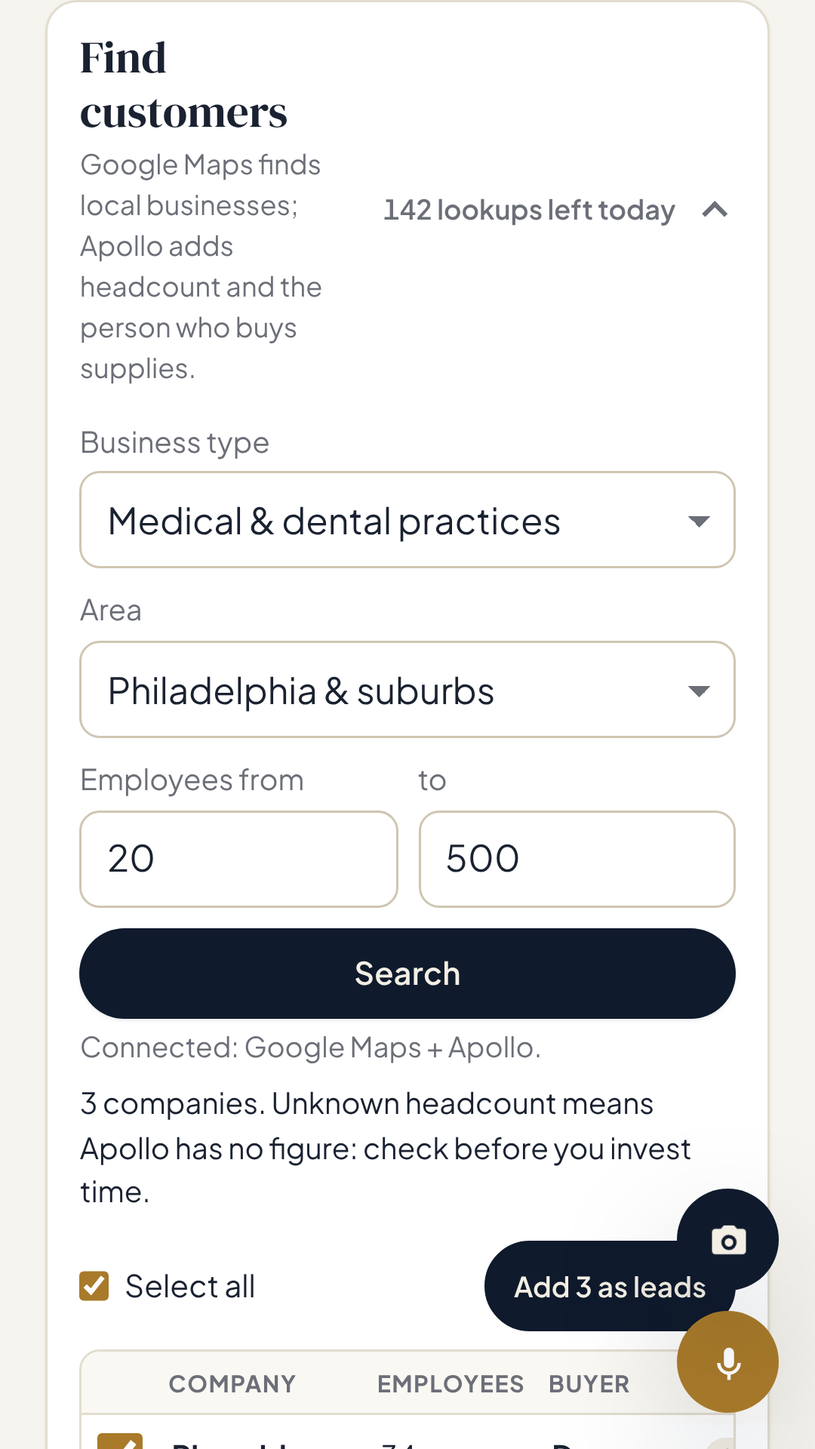
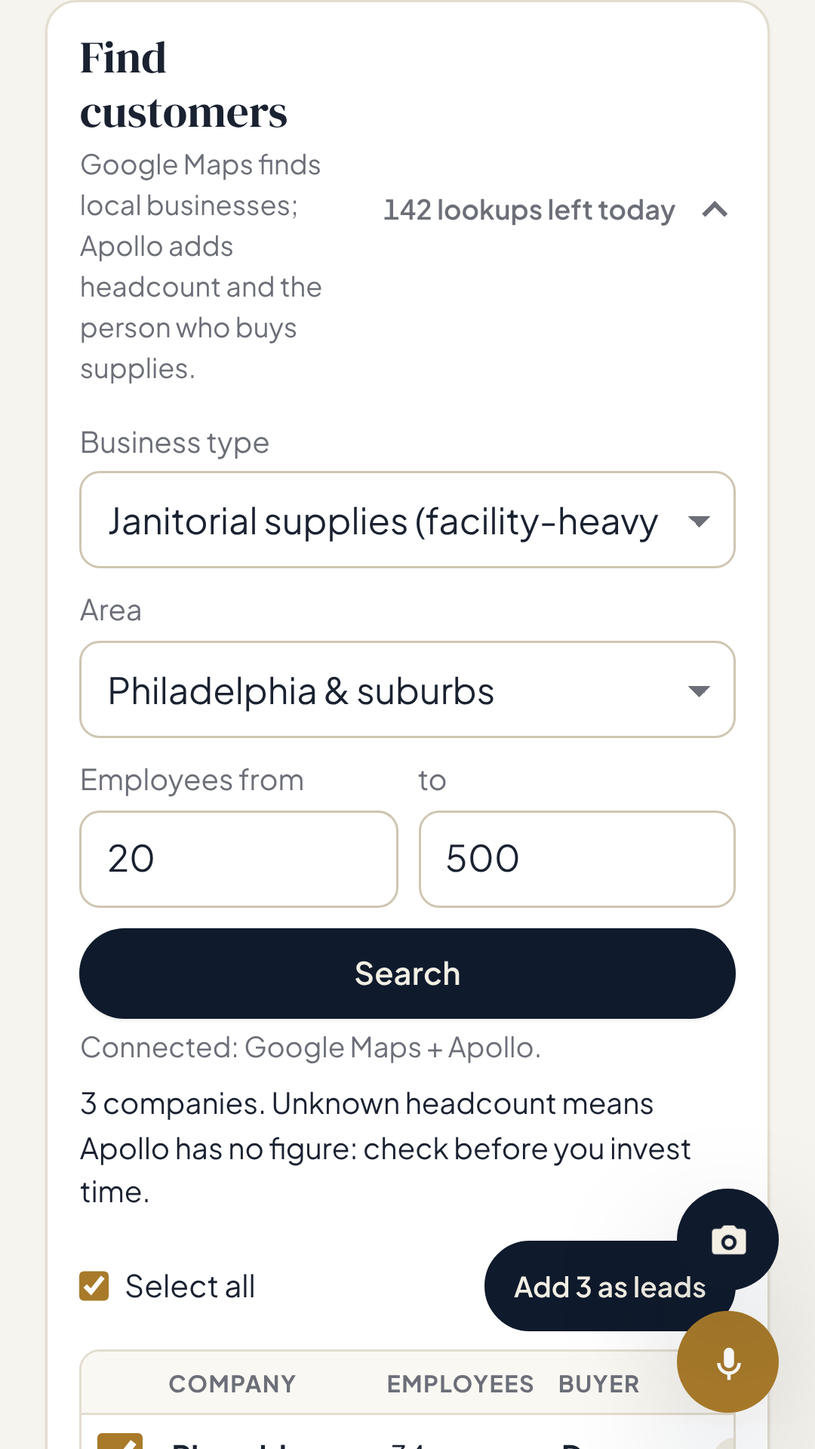
Focus the finder on janitorial, commercial furniture, branded products and uniforms
- Finder searches by product line with per-line Google queries, Apollo tags and buyer titles; leads filed under that product
- Branded products added as a product line (prospecting, quotes, account cross-sell); Print and Promotional lines split into branded vs uniforms
- Coach knowledge: who buys each product line; sample leads, listing copy, screenshots updated

Claude-Session: https://claude.ai/code/session_013NqyJyzSUuvsgJFnDHCgji

Changed region(s): [[0.1222, 0.3438, 0.7944, 0.375], [0.4583, 0.9375, 0.6417, 0.9688], [0.6722, 0.9375, 0.7944, 0.9688]]

diff --git a/frontend/sample.js b/frontend/sample.js
@@ -7,10 +7,10 @@
   const hub = window.SalesHub;
 
   const SAMPLES = [
-    { company: "Brightside Dental (SAMPLE)", industry: "Dental practice", employees: 34, city: "Philadelphia", state: "PA", zip: "19103", contactName: "Dana Reyes", contactTitle: "Practice Manager", email: "dana@brightside-dental.example", phone: "(215) 555-0111", website: "brightside-dental.example", stage: "verified", emailStatus: "valid" },
-    { company: "Keystone Legal Group (SAMPLE)", industry: "Law firm", employees: 58, city: "Allentown", state: "PA", zip: "18101", contactName: "Marcus Lee", contactTitle: "Office Administrator", email: "marcus@keystone-legal.example", phone: "(610) 555-0122", website: "keystone-legal.example", stage: "contacted", emailStatus: "valid" },
+    { company: "Brightside Dental (SAMPLE)", industry: "Dental practice", employees: 34, city: "Philadelphia", state: "PA", zip: "19103", contactName: "Dana Reyes", contactTitle: "Practice Manager", email: "dana@brightside-dental.example", phone: "(215) 555-0111", website: "brightside-dental.example", stage: "verified", emailStatus: "valid", products: ["janitorial"] },
+    { company: "Keystone Legal Group (SAMPLE)", industry: "Law firm", employees: 58, city: "Allentown", state: "PA", zip: "18101", contactName: "Marcus Lee", contactTitle: "Office Administrator", email: "marcus@keystone-legal.example", phone: "(610) 555-0122", website: "keystone-legal.example", stage: "contacted", emailStatus: "valid", products: ["furniture", "branded"] },
     { company: "Harbor Property Partners (SAMPLE)", industry: "Property management", employees: 41, city: "Cherry Hill", state: "NJ", zip: "08002", contactName: "Priya Nair", contactTitle: "Facilities Manager", email: "priya@harbor-property.example", phone: "(856) 555-0133", website: "harbor-property.example", stage: "enriched", emailStatus: "unverified" },
-    { company: "Lancaster Precision Tool (SAMPLE)", industry: "Manufacturing", employees: 120, city: "Lancaster", state: "PA", zip: "17601", contactName: "Tom Becker", contactTitle: "Operations Manager", email: "tom@lancaster-precision.example", phone: "(717) 555-0144", website: "lancaster-precision.example", stage: "qualified", emailStatus: "valid" },
+    { company: "Lancaster Precision Tool (SAMPLE)", industry: "Manufacturing", employees: 120, city: "Lancaster", state: "PA", zip: "17601", contactName: "Tom Becker", contactTitle: "Operations Manager", email: "tom@lancaster-precision.example", phone: "(717) 555-0144", website: "lancaster-precision.example", stage: "qualified", emailStatus: "valid", products: ["apparel", "janitorial"] },
     { company: "Maple Grove Academy (SAMPLE)", industry: "Private school", employees: 76, city: "Media", state: "PA", zip: "19063", contactName: "", contactTitle: "", email: "", phone: "(610) 555-0155", website: "maplegrove-academy.example", stage: "new", emailStatus: "unverified" },
     { company: "Delaware Valley Staffing (SAMPLE)", industry: "Staffing agency", employees: 49, city: "King of Prussia", state: "PA", zip: "19406", contactName: "Alicia Moore", contactTitle: "Office Manager", email: "alicia@dvstaffing.example", phone: "(610) 555-0166", website: "dvstaffing.example", stage: "new", emailStatus: "unverified" },
   ];

diff --git a/scripts/store_screenshots.js b/scripts/store_screenshots.js
@@ -19,9 +19,9 @@ const DEVICES = {
 const FINDER = {
   found: 3, notes: [], remaining: 142,
   results: [
-    { company: "Riverside Family Dental", address: "1200 Market St", city: "Philadelphia", state: "PA", zip: "19103", employees: 34, phone: "(215) 555-0111", website: "riverside-dental.example", contactName: "Dana Reyes", contactTitle: "Practice Manager", fit: 82, source: "Google Maps + Apollo", placeId: "s1", lat: 39.95, lng: -75.16 },
-    { company: "Walnut Street Accounting", address: "50 N 6th St", city: "Philadelphia", state: "PA", zip: "19106", employees: 58, phone: "(215) 555-0122", website: "walnut-accounting.example", fit: 71, source: "Google Maps + Apollo", placeId: "s2", lat: 39.95, lng: -75.15 },
-    { company: "Bayview Property Group", address: "8 Kings Hwy", city: "Cherry Hill", state: "NJ", zip: "08002", employees: "", phone: "(856) 555-0133", website: "bayview-property.example", fit: 55, source: "Google Maps", placeId: "s3", lat: 39.93, lng: -75.03 },
+    { company: "Riverside Medical Associates", address: "1200 Market St", city: "Philadelphia", state: "PA", zip: "19103", employees: 34, phone: "(215) 555-0111", website: "riverside-medical.example", contactName: "Dana Reyes", contactTitle: "Facilities Manager", fit: 82, source: "Google Maps + Apollo", placeId: "s1", lat: 39.95, lng: -75.16 },
+    { company: "Walnut Street Hotel", address: "50 N 6th St", city: "Philadelphia", state: "PA", zip: "19106", employees: 58, phone: "(215) 555-0122", website: "walnut-hotel.example", fit: 71, source: "Google Maps + Apollo", placeId: "s2", lat: 39.95, lng: -75.15 },
+    { company: "Bayview Warehousing", address: "8 Kings Hwy", city: "Cherry Hill", state: "NJ", zip: "08002", employees: "", phone: "(856) 555-0133", website: "bayview-warehousing.example", fit: 55, source: "Google Maps", placeId: "s3", lat: 39.93, lng: -75.03 },
   ],
 };
 
@@ -32,7 +32,7 @@ const FINDER = {
     fs.mkdirSync(out, { recursive: true });
     const ctx = await browser.newContext({ viewport: { width: d.width, height: d.height }, deviceScaleFactor: d.scale, isMobile: d.width < 700, hasTouch: true });
     const page = await ctx.newPage();
-    await page.route("**/finder/status", (r) => r.fulfill({ json: { google: true, apollo: true, remaining: 150, areas: { philadelphia: "Philadelphia & suburbs" }, segments: { healthcare: "Medical & dental practices", professional: "Professional offices (law, accounting, insurance, finance)" }, defaults: { min_employees: 20, max_employees: 500 } } }));
+    await page.route("**/finder/status", (r) => r.fulfill({ json: { google: true, apollo: true, remaining: 150, areas: { philadelphia: "Philadelphia & suburbs" }, segments: { janitorial: "Janitorial supplies (facility-heavy buyers)", furniture: "Commercial furniture projects (new, moving or renovating)", branded: "Branded & promotional products", uniforms: "Purchased uniforms & work apparel" }, defaults: { min_employees: 20, max_employees: 500 } } }));
     await page.route("**/finder/search", (r) => r.fulfill({ json: FINDER }));
     await page.goto(base);
     await page.fill("#signin-email", email);

diff --git a/frontend/quotes.js b/frontend/quotes.js
@@ -27,6 +27,7 @@
     janitorial: "Janitorial & facility",
     furniture: "Furniture & design",
     apparel: "Uniforms & apparel",
+    branded: "Branded products",
     other: "Other",
   };
 
@@ -35,16 +36,18 @@
   const LINE_KEYWORDS = {
     furniture: /\b(chair|desk|table|workstation|cabinet|shelv|cubicle|seating|furniture|bookcase|credenza|ergonomic)/,
     apparel: /\b(shirt|polo|scrub|jacket|uniform|apparel|hat|cap|vest|pant|quarter[- ]?zip|hoodie|fleece)/,
+    branded: /\b(branded|logo|promo\w*|drinkware|tote|giveaway|lanyard|banner|signage|swag)/,
   };
 
   function guessLineType(text) {
     const t = (text || "").toLowerCase();
     if (LINE_KEYWORDS.furniture.test(t)) return "furniture";
     if (LINE_KEYWORDS.apparel.test(t)) return "apparel";
+    if (LINE_KEYWORDS.branded.test(t)) return "branded";
     return "janitorial";
   }
 
-  const DEFAULT_FREQ = { janitorial: "month", furniture: "once", apparel: "once", other: "once" };
+  const DEFAULT_FREQ = { janitorial: "month", furniture: "once", apparel: "once", branded: "once", other: "once" };
 
   // Default sales-tax rate from the customer's location. Reps confirm per deal.
   function defaultTaxRate(c) {
@@ -433,7 +436,10 @@
 
   // Quote lines keep a coarse product line ("type") for account coverage and
   // the six-way catalog category for display.
-  const CAT_TO_TYPE = { janitorial: "janitorial", breakroom: "janitorial", furniture: "furniture", promo: "apparel", office: "other", printing: "other", other: "other" };
+  const CAT_TO_TYPE = { janitorial: "janitorial", breakroom: "janitorial", furniture: "furniture", promo: "branded", office: "other", printing: "other", other: "other" };
+  // Print and Promotional holds two product lines: worn items are uniforms/apparel, the rest branded products.
+  const WORN = /\b(uniforms?|apparel|shirts?|polos?|hoodies?|jackets?|caps?|hats?|scrubs?|aprons?|pants|vests?|boots?)\b/i;
+  const typeFor = (category, name) => (category === "promo" && WORN.test(name || "") ? "apparel" : CAT_TO_TYPE[category] || "other");
   const CAT_FREQ = { furniture: "once", promo: "once" }; // everything else restocks monthly
   // Rounded up to the cent so the price never lands below the chosen margin.
   const priceFor = (cost, m) => Math.ceil((num(cost) / (1 - Math.min(99.9, Math.max(0, num(m))) / 100)) * 100 - 1e-9) / 100;
@@ -840,7 +846,7 @@
       sku: ipInputs["ip-sku"].value.trim(),
       name,
       category,
-      type: CAT_TO_TYPE[category] || "other",
+      type: typeFor(category, name),
       qty: val("ip-qty") ?? 1,
       uom: ipInputs["ip-uom"].value.trim() || "each",
       freq: $("ip-freq").value,

diff --git a/frontend/prospecting.js b/frontend/prospecting.js
@@ -108,8 +108,14 @@
       why: "They manage day-to-day building upkeep and order cleaning/restocking supplies.",
       pitch: "janitorial supply",
     },
+    branded: {
+      label: "Branded & promotional products",
+      titles: ["Marketing Manager", "Events / Communications Manager", "Office Manager"],
+      why: "Marketing and events teams order logo items for customers, trade shows and employee gifts.",
+      pitch: "branded and promotional product",
+    },
     apparel: {
-      label: "Uniforms & corporate apparel",
+      label: "Purchased uniforms & work apparel",
       titles: ["HR Director", "Marketing Manager (Corporate)", "Operations Lead (Field/Techs)"],
       why: "HR coordinates employee apparel programs; Marketing handles corporate branding.",
       pitch: "uniform & apparel",

diff --git a/frontend/finder.js b/frontend/finder.js
@@ -169,6 +169,7 @@
         source: r.source || "Customer finder", placeId: r.placeId || "", lat: r.lat ?? "", lng: r.lng ?? "",
         geoQuery: [r.address, r.city, r.state].filter(Boolean).join(", "), geocodedAt: r.lat != null ? new Date().toISOString() : "",
         linkedinUrl: r.linkedinUrl || "",
+        products: r.product ? [r.product] : [], // the product line searched for
       }))
     );
     const skipped = rows.length - added.length;

diff --git a/frontend/accounts.js b/frontend/accounts.js
@@ -230,7 +230,7 @@
     const list = filteredAccounts();
     const tbody = $("a-rows");
     tbody.replaceChildren();
-    const short = { furniture: "Furniture", janitorial: "Janitorial", apparel: "Apparel" };
+    const short = { furniture: "Furniture", janitorial: "Janitorial", apparel: "Uniforms", branded: "Branded" };
     for (const { a, m } of list) {
       const tr = document.createElement("tr");
       tr.dataset.id = a.id;

diff --git a/prospect_finder.py b/prospect_finder.py
@@ -7,8 +7,7 @@ headcount and the decision-maker. Both keys stay on the server.
                domain, headcount inside the range (unknown headcount is kept
                and flagged so the rep can decide)
     Enrich     on demand, one company at a time: Apollo organization enrich for
-               headcount, then people search for the buyer (office / facilities /
-               operations / purchasing). Names and titles only. Emails that
+               headcount, then people search for the buyer (for the chosen product line: facilities, marketing, operations, owner…). Names and titles only. Emails that
                Apollo locks cost a credit to reveal and are never revealed here.
 
 Nothing is stored: results go to the rep's browser, which adds the ones they pick
@@ -46,36 +45,44 @@ AREAS: Dict[str, Dict[str, Any]] = {
                   "apollo": ["Lancaster County, Pennsylvania, United States"]},
 }
 
-# What an Office Basics rep sells to: offices that buy supplies, break-room items,
-# printing and furniture. `q` are Google search phrases, `tags` Apollo keyword tags.
+# The four product lines the rep prospects for. `q` are Google search phrases, `tags` Apollo keyword tags,
+# `product` the Sales Hub product-interest key the lead is filed under, `titles` who buys it (most senior first).
 SEGMENTS: Dict[str, Dict[str, Any]] = {
-    "professional": {"label": "Professional offices (law, accounting, insurance, finance)",
-                     "q": ["law firm", "accounting firm", "insurance agency", "financial advisor"],
-                     "tags": ["legal services", "accounting", "insurance", "financial services"]},
-    "healthcare": {"label": "Medical & dental practices",
-                   "q": ["medical practice", "dental office", "physical therapy clinic", "urgent care"],
-                   "tags": ["medical practice", "dental", "health care", "physical therapy"]},
-    "property": {"label": "Property management & real estate",
-                 "q": ["property management company", "commercial real estate", "real estate office"],
-                 "tags": ["property management", "commercial real estate", "real estate"]},
-    "industrial": {"label": "Manufacturing, warehouse & distribution",
-                   "q": ["manufacturing company", "distribution center", "warehouse", "logistics company"],
-                   "tags": ["manufacturing", "logistics & supply chain", "warehousing", "wholesale"]},
-    "education": {"label": "Schools, colleges & child care",
-                  "q": ["private school", "charter school", "child care center", "trade school"],
-                  "tags": ["education management", "primary/secondary education", "higher education"]},
-    "nonprofit": {"label": "Nonprofits, churches & associations",
-                  "q": ["nonprofit organization", "community center", "association headquarters"],
-                  "tags": ["nonprofit organization management", "civic & social organization"]},
-    "tech": {"label": "Technology, marketing & staffing offices",
-             "q": ["staffing agency", "marketing agency", "software company", "IT services"],
-             "tags": ["staffing & recruiting", "marketing & advertising", "information technology & services"]},
-    "hospitality": {"label": "Hotels, restaurants & fitness",
-                    "q": ["hotel", "fitness center", "event venue"],
-                    "tags": ["hospitality", "leisure, travel & tourism", "health, wellness & fitness"]},
+    "janitorial": {
+        "label": "Janitorial supplies (facility-heavy buyers)", "product": "janitorial",
+        "q": ["medical clinic", "school", "hotel", "warehouse", "fitness center", "senior living facility",
+              "property management company", "church"],
+        "tags": ["hospital & health care", "primary/secondary education", "hospitality", "warehousing",
+                 "property management", "health, wellness & fitness"],
+        "titles": ["facilities manager", "director of facilities", "building manager", "operations manager",
+                   "purchasing manager", "procurement", "property manager", "office manager"]},
+    "furniture": {
+        "label": "Commercial furniture projects (new, moving or renovating)", "product": "furniture",
+        "q": ["architecture firm", "interior design firm", "general contractor", "coworking space",
+              "commercial real estate developer", "senior living community", "charter school", "medical office"],
+        "tags": ["architecture & planning", "design", "construction", "commercial real estate", "higher education",
+                 "hospital & health care"],
+        "titles": ["director of facilities", "facilities manager", "vice president of operations", "office manager",
+                   "workplace experience", "real estate manager", "project manager", "owner", "principal"]},
+    "branded": {
+        "label": "Branded & promotional products", "product": "branded",
+        "q": ["bank", "credit union", "brewery", "nonprofit organization", "sports club", "franchise office",
+              "trade association", "college"],
+        "tags": ["banking", "nonprofit organization management", "marketing & advertising", "events services",
+                 "higher education", "sports"],
+        "titles": ["marketing manager", "director of marketing", "communications manager", "events manager",
+                   "development director", "business development", "office manager", "owner"]},
+    "uniforms": {
+        "label": "Purchased uniforms & work apparel", "product": "apparel",
+        "q": ["HVAC contractor", "plumbing company", "electrician", "landscaping company", "auto repair shop",
+              "restaurant", "security company", "cleaning company"],
+        "tags": ["construction", "automotive", "restaurants", "security & investigations", "facilities services",
+                 "utilities"],
+        "titles": ["owner", "president", "operations manager", "general manager", "hr director", "office manager",
+                   "fleet manager", "purchasing manager"]},
 }
 
-# Who buys office, break-room and facility supplies, most senior first.
+# Fallback buyer titles when a company's product line is unknown.
 BUYER_TITLES = ["owner", "president", "ceo", "office manager", "facilities manager", "director of operations",
                 "operations manager", "purchasing manager", "procurement", "administrator", "practice manager",
                 "business manager", "controller"]
@@ -324,9 +331,13 @@ def apollo_enrich(row: Dict[str, Any], key: str, http: Http = http_json) -> None
         row["employees"], row["headcountSource"] = a["employees"], "Apollo"
 
 
-def _title_rank(title: str) -> int:
+def _titles_for(row: Dict[str, Any]) -> List[str]:
+    return SEGMENTS.get(row.get("segmentKey", ""), {}).get("titles") or BUYER_TITLES
+
+
+def _title_rank(title: str, titles: List[str]) -> int:
     t = (title or "").lower()
-    return next((i for i, d in enumerate(BUYER_TITLES) if d in t), len(BUYER_TITLES))
+    return next((i for i, d in enumerate(titles) if d in t), len(titles))
 
 
 def apollo_contact(row: Dict[str, Any], key: str, http: Http = http_json) -> None:
@@ -336,11 +347,12 @@ def apollo_contact(row: Dict[str, Any], key: str, http: Http = http_json) -> Non
     if not domain:
         return
     data = http("POST", f"{APOLLO}/mixed_people/search", {"X-Api-Key": key}, {
-        "q_organization_domains_list": [domain], "person_titles": BUYER_TITLES, "page": 1, "per_page": 5})
+        "q_organization_domains_list": [domain], "person_titles": _titles_for(row), "page": 1, "per_page": 5})
     people = data.get("people") or data.get("contacts") or []
     if not people:
         return
-    p = min(people, key=lambda x: _title_rank(x.get("title", "")))
+    titles = _titles_for(row)
+    p = min(people, key=lambda x: _title_rank(x.get("title", ""), titles))
     row["contactName"] = p.get("name") or " ".join(filter(None, (p.get("first_name"), p.get("last_name"))))
     row["contactTitle"] = p.get("title") or ""
     email = p.get("email") or ""
@@ -452,6 +464,7 @@ def search(user_budget: Budget, user: str, segment: str, area_key: str, lo: int,
     screened = screen(merge(rows), area, lo, hi)
     for r in screened:
         r["segmentKey"] = segment
+        r["product"] = seg["product"]
     return {"results": screened[:limit], "found": len(screened), "notes": notes,
             "remaining": user_budget.remaining(user)}
 
@@ -463,7 +476,7 @@ def enrich(user_budget: Budget, user: str, row: Dict[str, Any], http: Http = htt
         raise ValueError("Apollo isn't connected on this server (APOLLO_API_KEY).")
     if not domain_of(row.get("website")):
         raise ValueError("This company has no website, so Apollo can't look it up.")
-    out = {k: row.get(k, "") for k in ("company", "website", "employees", "headcountSource", "industry", "phone",
+    out = {k: row.get(k, "") for k in ("company", "segmentKey", "website", "employees", "headcountSource", "industry", "phone",
                                        "address", "zip", "linkedinUrl", "contactName", "contactTitle", "email",
                                        "emailStatus")}
     user_budget.spend(user, 2)

diff --git a/tests/test_finder.py b/tests/test_finder.py
@@ -43,7 +43,7 @@ def test_merge_by_domain_screen_by_radius_and_headcount(keys):
                 place("3", "Closed Co", 39.95, -75.16, "https://closed.com", status="CLOSED_PERMANENTLY")],
         orgs=[{"name": "Acme Law", "website_url": "http://acmelaw.com", "estimated_num_employees": 45, "city": "Philadelphia", "state": "Pennsylvania"},
               {"name": "Tiny LLC", "website_url": "http://tiny.com", "estimated_num_employees": 3}])
-    out = pf.search(pf.Budget(100), "u@x.com", "professional", "philadelphia", 20, 500, http=http)
+    out = pf.search(pf.Budget(100), "u@x.com", "furniture", "philadelphia", 20, 500, http=http)
     names = [r["company"] for r in out["results"]]
     assert names == ["Acme Law LLC"]  # merged on domain, far/closed/tiny dropped
     r = out["results"][0]
@@ -53,27 +53,27 @@ def test_merge_by_domain_screen_by_radius_and_headcount(keys):
 
 def test_unknown_headcount_is_kept_and_flagged(keys):
     http = FakeHttp(places=[place("1", "Mystery Dental", 39.95, -75.16, "https://m.com")])
-    r = pf.search(pf.Budget(100), "u", "healthcare", "philadelphia", 20, 500, http=http)["results"][0]
+    r = pf.search(pf.Budget(100), "u", "janitorial", "philadelphia", 20, 500, http=http)["results"][0]
     assert r["employees"] == ""
 
 
 def test_one_provider_failing_still_returns_the_other(keys):
     http = FakeHttp(places=[place("1", "Acme", 39.95, -75.16, "https://a.com")], fail="apollo")
-    out = pf.search(pf.Budget(100), "u", "professional", "philadelphia", 20, 500, http=http)
+    out = pf.search(pf.Budget(100), "u", "furniture", "philadelphia", 20, 500, http=http)
     assert len(out["results"]) == 1 and "Apollo" in out["notes"][0]
     assert "api" not in out["notes"][0].lower().replace("api key", "")  # no URLs or keys leak
 
 
 def test_all_providers_failing_raises(keys):
     with pytest.raises(pf.SearchFailed):
-        pf.search(pf.Budget(100), "u", "professional", "philadelphia", 20, 500, http=FakeHttp(fail="."))
+        pf.search(pf.Budget(100), "u", "furniture", "philadelphia", 20, 500, http=FakeHttp(fail="."))
 
 
 def test_budget_caps_calls_per_user(keys):
     b = pf.Budget(2)
     http = FakeHttp(places=[])
     with pytest.raises(pf.BudgetExceeded):
-        pf.search(b, "u", "professional", "philadelphia", 20, 500, http=http)
+        pf.search(b, "u", "furniture", "philadelphia", 20, 500, http=http)
     assert pf.Budget(2).remaining("other") == 2 and b.remaining("u") == 0
     assert len(http.calls) <= 2  # stopped before overspending
 
@@ -99,14 +99,35 @@ def test_validation_and_unconfigured(monkeypatch):
     for k in ("GOOGLE_PLACES_API_KEY", "GOOGLE_MAPS_API_KEY", "APOLLO_API_KEY"):
         monkeypatch.delenv(k, raising=False)
     with pytest.raises(ValueError, match="isn't set up"):
-        pf.search(pf.Budget(10), "u", "professional", "philadelphia", 20, 500, http=FakeHttp())
+        pf.search(pf.Budget(10), "u", "furniture", "philadelphia", 20, 500, http=FakeHttp())
     monkeypatch.setenv("APOLLO_API_KEY", "a")
     with pytest.raises(ValueError):
         pf.search(pf.Budget(10), "u", "nope", "philadelphia", 20, 500, http=FakeHttp())
     with pytest.raises(ValueError):
-        pf.search(pf.Budget(10), "u", "professional", "philadelphia", 500, 20, http=FakeHttp())
+        pf.search(pf.Budget(10), "u", "furniture", "philadelphia", 500, 20, http=FakeHttp())
 
 
 def test_provider_error_messages_hide_secrets():
     assert "key" in str(pf.ProviderError("Google", 403))
     assert "http" not in str(pf.ProviderError("Apollo", 500)).lower().replace("(http 500)", "")
+
+
+def test_each_product_line_has_queries_titles_and_a_known_product():
+    assert set(pf.SEGMENTS) == {"janitorial", "furniture", "branded", "uniforms"}
+    for seg in pf.SEGMENTS.values():
+        assert seg["q"] and seg["tags"] and seg["titles"] and seg["product"] in {"janitorial", "furniture", "branded", "apparel"}
+
+
+def test_buyer_title_depends_on_the_product_line(keys):
+    people = [{"name": "Olivia Owner", "title": "Owner", "email": "email_not_unlocked@x.com"},
+              {"name": "Mia Marketing", "title": "Director of Marketing", "email": "email_not_unlocked@x.com"}]
+    row = {"company": "Acme", "website": "acme.com"}
+    branded = pf.enrich(pf.Budget(10), "u", {**row, "segmentKey": "branded"}, http=FakeHttp(people=people))
+    uniforms = pf.enrich(pf.Budget(10), "u", {**row, "segmentKey": "uniforms"}, http=FakeHttp(people=people))
+    assert branded["contactName"] == "Mia Marketing" and uniforms["contactName"] == "Olivia Owner"
+
+
+def test_results_carry_the_product_for_the_lead(keys):
+    http = FakeHttp(places=[place("1", "Acme HVAC", 39.95, -75.16, "https://a.com")])
+    r = pf.search(pf.Budget(100), "u", "uniforms", "philadelphia", 20, 500, http=http)["results"][0]
+    assert r["product"] == "apparel" and r["segmentKey"] == "uniforms"

diff --git a/personas.py b/personas.py
@@ -171,6 +171,14 @@ What signals influence your perception of a business before you buy from them?""
              "contacts, not consumer addresses. Keep it to a few sentences: why this person, one outcome, one ask. "
              "Do not record calls without every party's consent (Pennsylvania and New Jersey differ; when unsure, "
              "ask permission on the call or don't record). Honor opt-outs immediately."},
+    {"id": "product-lines", "title": "Who buys each product line", "personas": ["discovery", "outreach", "growth", "proposal"],
+     "tags": ["janitorial", "furniture", "branded", "promotional", "uniforms", "apparel", "buyer", "title", "prospect", "project"],
+     "body": "Janitorial supplies: facilities, building or operations managers and purchasing; look for sites with heavy foot traffic "
+             "(clinics, schools, hotels, warehouses). Commercial furniture projects: facilities directors, office managers, workplace "
+             "experience leads, and the architects, designers and contractors who specify projects; ask about moves, new space, "
+             "renovations and timelines. Branded products: marketing, communications and events people; ask what events, giveaways and "
+             "customer gifts are coming. Purchased uniforms: owners, operations or general managers and HR; ask who is uniformed, how "
+             "often they reorder, and what they pay per employee. Open each conversation with the buyer's own problem."},
     {"id": "onboarding-growth", "title": "Onboard, then grow the account", "personas": ["growth"],
      "tags": ["onboarding", "account", "growth", "cross-sell", "review", "qbr", "renewal", "expand", "90 day"],
      "body": "A won account starts with onboarding: kickoff, account setup, contacts, contract pricing, delivery and "

diff --git a/README.md b/README.md
@@ -204,10 +204,17 @@ The photo is not stored.
   line is logged as a meeting on the record.
 
 ## Find customers (Google Maps + Apollo)
-**Prospecting → Find customers** builds a target list the way VectorSales' `prospecting/build_list.py` does,
-adapted to the businesses an office-supplies rep sells to (professional offices, medical and dental
-practices, property managers, manufacturers and warehouses, schools, nonprofits, staffing and tech offices,
-hotels and fitness):
+**Prospecting → Find customers** builds a target list the way VectorSales' `prospecting/build_list.py` does, focused
+on the four product lines the rep sells. Pick one:
+
+| Product line | Who it searches for | Buyer Apollo looks for |
+|---|---|---|
+| **Janitorial supplies** | facility-heavy sites: clinics, schools, hotels, warehouses, fitness centers, senior living, property managers, churches | facilities / building / operations / purchasing manager |
+| **Commercial furniture projects** | companies likely to buy a project: architects, interior designers, contractors, coworking, developers, senior living, charter schools, medical offices | facilities director, office manager, workplace experience, project manager, owner |
+| **Branded & promotional products** | banks and credit unions, breweries, nonprofits, sports clubs, franchises, associations, colleges | marketing, communications, events, development |
+| **Purchased uniforms & work apparel** | HVAC, plumbing, electrical, landscaping, auto repair, restaurants, security and cleaning companies | owner, operations/general manager, HR, fleet, purchasing |
+
+Leads are filed under the matching product interest, so the outreach draft, contact titles and cross-sell gaps follow it.
 
 1. **Discover** — Google Places text search around the chosen area (Philadelphia & suburbs, South Jersey,
    Central NJ, Lehigh Valley, Lancaster), plus Apollo's organization search filtered to your headcount range.

diff --git a/store/listing.md b/store/listing.md
@@ -16,7 +16,7 @@ Edit the product name if you ship under your own brand. Character limits are the
 Sales Hub is the sales app for business development reps who sell office, break-room, janitorial and print supplies.
 It follows the sale from the first search to the first order.
 
-FIND CUSTOMERS. Search Google Maps for businesses near you by type and area. See estimated headcount and the person who buys supplies. Add the good ones to your pipeline in one tap.
+FIND CUSTOMERS. Pick what you sell (janitorial supplies, commercial furniture projects, branded products or purchased uniforms) and an area. Google Maps finds the businesses; see estimated headcount and the person who buys. Add the good ones to your pipeline in one tap.
 
 COMPARE COSTS. Photograph or upload what a customer buys today and get good, better and best alternatives, compared on cost per use, not case price.
 
